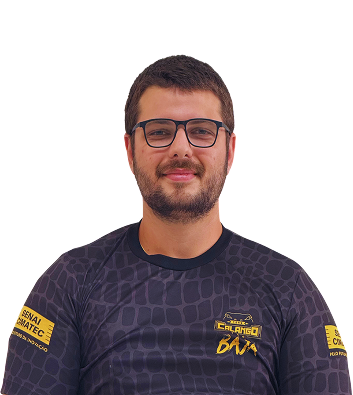
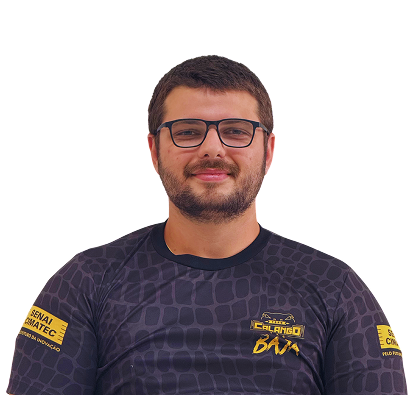
commit

diff --git a/Main/WebSite CalangoTec/src/Pages/Loja/Loja.tsx b/Main/WebSite CalangoTec/src/Pages/Loja/Loja.tsx
@@ -22,7 +22,7 @@ export default function Loja() {
                         {/* Card 1 */}
                         <div className="flex flex-col items-center">
                             <img src={cardLoja1} alt="cardLoja" className="rounded-lg" />
-                            <a href="" target='_blank'>
+                            <a href="#" >
                                 <button className="font-[knewave] w-[308px] mt-4 bg-gray-100 border-2 border-black text-black text-lg px-6 py-2 rounded-md hover:bg-gray-400 transition">
                                     ESGOTADO
                                 </button>
@@ -31,7 +31,7 @@ export default function Loja() {
                         {/* Card 2 */}
                         <div className="flex flex-col items-center">
                             <img src={cardLoja2} alt="cardLoja" className="rounded-lg" />
-                            <a href="" target='_blank'>
+                            <a href="#" >
                                 <button className="font-[knewave] w-[308px] mt-4 bg-gray-100 border-2 border-black text-black text-lg px-6 py-2 rounded-md hover:bg-gray-400 transition">
                                     ESGOTADO
                                 </button>
@@ -40,14 +40,14 @@ export default function Loja() {
                         {/* Card 3 */}
                         <div className="flex flex-col items-center">
                             <img src={cardLoja} alt="cardLoja" className="rounded-lg" />
-                            <a href="" target='_blank'>
+                            <a href="#" >
                                 <button className="font-[knewave] w-[308px] mt-4 bg-gray-100 border-2 border-black text-black text-lg px-6 py-2 rounded-md hover:bg-gray-400 transition">
-                                    UNIFORME 1
+                                    EM BREVE
                                 </button>
                             </a>
                         </div>
                     
-                        {/* Card 4 */}
+                        {/* Card 4 }
                         <div className="flex flex-col items-center">
                             <img src={cardLoja} alt="cardLoja" className="rounded-lg" />
                             <a href="" target='_blank'>
@@ -56,7 +56,7 @@ export default function Loja() {
                                 </button>
                             </a>
                         </div>
-                        {/* Card 5 */}
+                        {/* Card 5 }
                         <div className="flex flex-col items-center">
                             <img src={cardLoja} alt="cardLoja" className="rounded-lg" />
                             <a href="" target='_blank'>
@@ -65,7 +65,7 @@ export default function Loja() {
                                 </button>
                             </a>
                         </div>
-                        {/* Card 6 */}
+                        {/* Card 6 *}
                         <div className="flex flex-col items-center">
                             <img src={cardLoja} alt="cardLoja" className="rounded-lg" />
                             <a href="" target='_blank'>
@@ -73,7 +73,7 @@ export default function Loja() {
                                     COMPRAR
                                 </button>
                             </a>
-                        </div>
+                        </div> */}
                     </div>
                 </div>
             </div>

diff --git a/Main/WebSite CalangoTec/src/Pages/Subsistema/Powertrain/Powertrain.tsx b/Main/WebSite CalangoTec/src/Pages/Subsistema/Powertrain/Powertrain.tsx
@@ -5,7 +5,7 @@ import SubsistemaGenerico from "../SubsistemaGenerico"
 import fotojuli from "../../../assets/Subsistemas/Powertrain/juli.png"
 import fotolucas from "../../../assets/Subsistemas/Powertrain/lucas.png"
 import fotobernardo from "../../../assets/Subsistemas/Powertrain/bernardo.png"
-import fotopedro from "../../../assets/Subsistemas/Powertrain/pedro.png"
+import fotopedro from "../../../assets/Subsistemas/Powertrain/pedroAlma.png"
 import Footer from "../../../Elements/Footer.tsx";
 
 const membros = [

diff --git a/Main/WebSite CalangoTec/src/Pages/Subsistema/Suspensao/Suspensao.tsx b/Main/WebSite CalangoTec/src/Pages/Subsistema/Suspensao/Suspensao.tsx
@@ -10,8 +10,8 @@ import foto1 from "../../../assets/Subsistemas/Suspensao/foto1.jpg"
 
 const membros = [
     {nome: "Fernando Pessoa", cargo: "Gerente", foto: fotofernando},
-    {nome: "Larissa Dias", cargo: "Líder", foto: fotolari},
-    {nome: "Danilo Silva", cargo: "Membro", foto: fotodanilo},
+    {nome: "Danilo Silva", cargo: "Líder", foto: fotodanilo},
+    {nome: "Larissa Dias", cargo: "Membro", foto: fotolari},
     {nome: "Miguel Cervino", cargo: "Membro", foto: fotomiguel},
     
 ]
